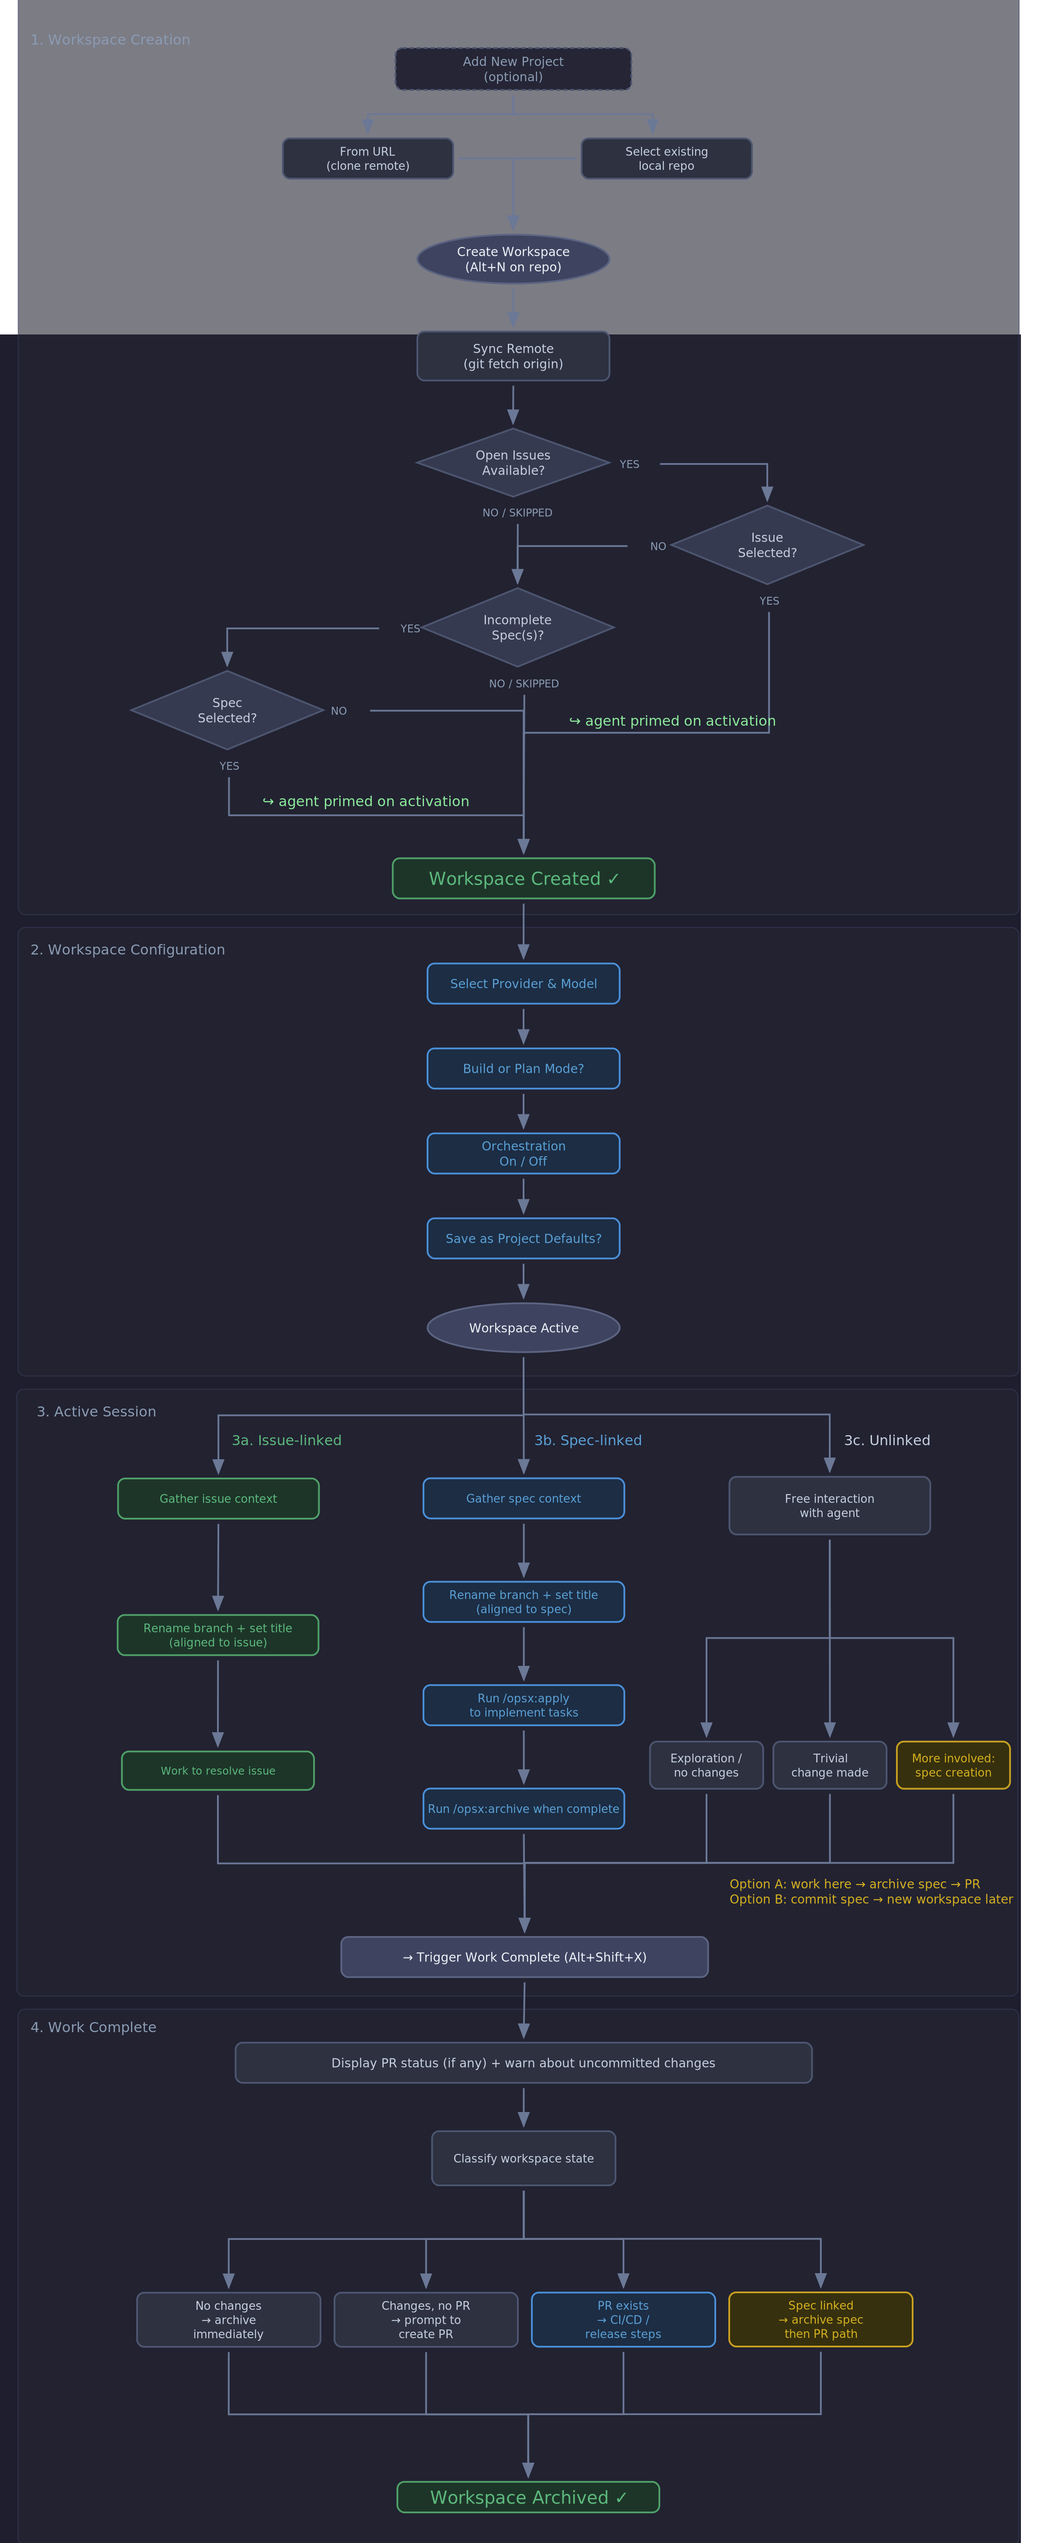
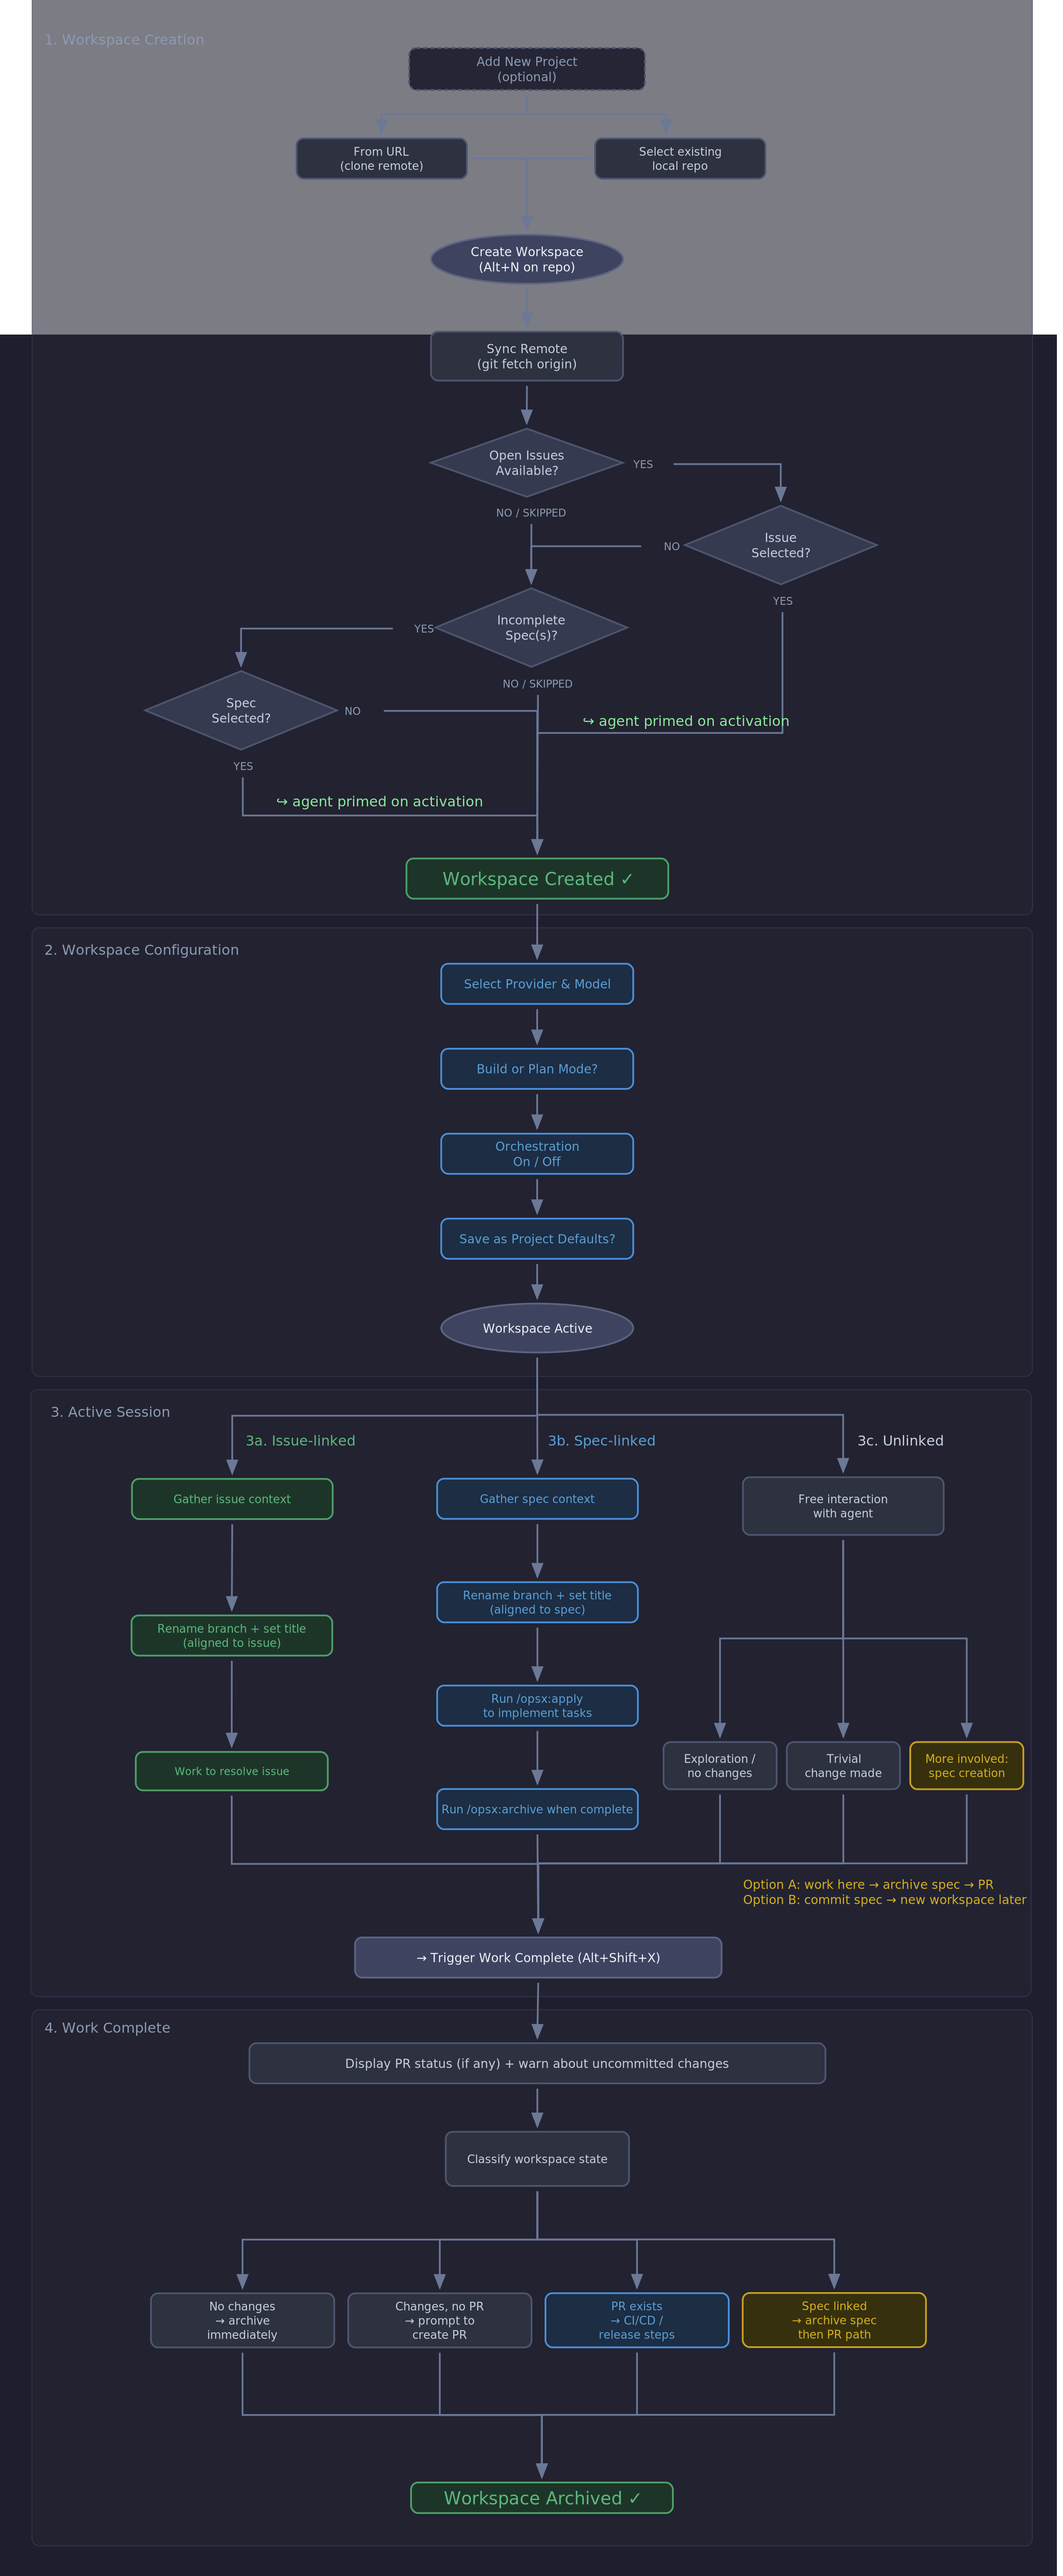
docs: fix white margins on dark PNG by using mixed viewBox strategy
Use all-shapes bounds for x and y-bottom (so bg elements stay inside the
viewport) but content-only for y-top (so bg1 covers the top without a
self-referential gap). Fixes white strips on left/bottom of dark export.

diff --git a/.claude/commands/regen-lifecycle-diagram.md b/.claude/commands/regen-lifecycle-diagram.md
@@ -153,14 +153,16 @@ def build_svg(els, dark=False):
     global _arrow_n
     _arrow_n = 0
     shapes = [e for e in els if e['type'] not in ('arrow',)]
-    # Use content-only (non-bg) elements for the viewBox so phase background
-    # rectangles don't create a self-referential gap at the top of the image.
     content = [e for e in shapes if not e.get('id','').startswith('bg')]
-    bbox_els = content if content else shapes
-    xs = [e['x'] for e in bbox_els]+[e['x']+e.get('width',0) for e in bbox_els]
-    ys = [e['y'] for e in bbox_els]+[e['y']+e.get('height',0) for e in bbox_els]
+    bbox = content if content else shapes
     pad = 35
-    mnx,mny,mxx,mxy = min(xs)-pad, min(ys)-pad, max(xs)+pad, max(ys)+pad
+    # x bounds + y-bottom: use all shapes so bg elements stay inside the viewport.
+    # y-top: use content-only so bg1 covers the top without a self-referential gap.
+    all_xs  = [e['x'] for e in shapes]+[e['x']+e.get('width',0) for e in shapes]
+    all_yb  = [e['y']+e.get('height',0) for e in shapes]
+    cont_yt = [e['y'] for e in bbox]
+    mnx = min(all_xs)-pad; mxx = max(all_xs)+pad
+    mny = min(cont_yt)-pad; mxy = max(all_yb)+pad
     vw,vh = mxx-mnx, mxy-mny
     canvas = DARK_CANVAS if dark else 'white'
     parts = [
